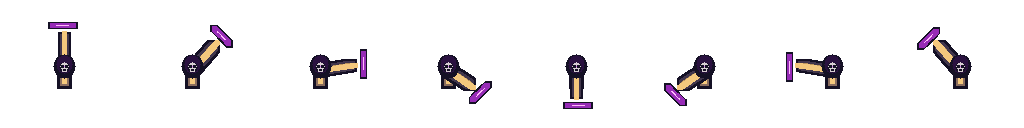
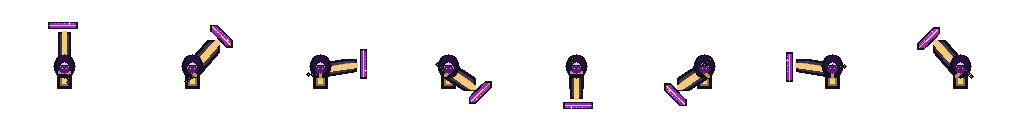
Art: improve Reaper's eight-direction scythe Pixel Art candidate (#340)
* Add directional scythe edge, chain, runes and glow to Reaper Pixel Art source

* Export detailed eight-direction Reaper scythe atlas

* Document separate Reaper scythe v3 art candidate

* Track Reaper eight-way scythe v3 review candidate

* Track Reaper eight-way scythe v3 review candidate

* Track Reaper eight-way scythe v3 review candidate

* Track Reaper eight-way scythe v3 review candidate

diff --git a/tools/generate_necro_modular_candidates.py b/tools/generate_necro_modular_candidates.py
@@ -108,6 +108,25 @@ def base(level):
    line(im,64+dx,82,64+dx*1.17,76,0,7)
  gothic_base_detail(im,level)
  return im
+def reaper_detail(im,dx,dy,x,y):
+ # Directional blade ribs, chained skull pommel and purple soul-fire.
+ sx,sy=-dy,dx
+ tx,ty=x+dx*13,y+dy*13
+ for k in range(-3,4):
+  px,py=tx+sx*k*3,ty+sy*k*3
+  point(im,px+dx*2,py+dy*2,11 if k%2 else 12)
+ line(im,tx-sx*15,ty-sy*15,tx+sx*11,ty+sy*11,0,7)
+ for k in (0,1,2,3):
+  cx=64-dx*k*4+sx*4
+  cy=70-dy*k*4+sy*4
+  oval(im,cx,cy,2,2,1)
+  point(im,cx,cy,6)
+ line(im,64-sx*5,72-sy*5,64+sx*5,72+sy*5,1,6)
+ oval(im,64,69,5,4,9)
+ point(im,62,68,12)
+ point(im,66,68,12)
+ for k in (1,2,3):
+  point(im,tx+dx*k+sx*5,ty+dy*k+sy*5,12)
 def weapon(branch):
  atlas=canvas(1024,128)
  for idx,(dx,dy) in enumerate(DIRECTIONS):
@@ -126,6 +145,7 @@ def weapon(branch):
    line(im,tip[0]-sx*12,tip[1]-sy*12,tip[0]+sx*9,tip[1]+sy*9,2,10)
    line(im,tip[0]-sx*8,tip[1]-sy*8,tip[0]+sx*4,tip[1]+sy*4,0,12)
    oval(im,64,66,11,12,1);oval(im,64,64,8,9,8);skull(im,64,67)
+   reaper_detail(im,dx,dy,x,y)
   else:
    sx,sy=-dy,dx
    for q in (-1,0,1):

diff --git a/docs/ROADMAP.md b/docs/ROADMAP.md
@@ -1,5 +1,8 @@
 # АКТУАЛЬНЫЙ ПЛАН — 01.11.2026 (после PR #314)
 
+**02.11.2026 — Жнец v3 (на художественную проверку):** детализирован 8-направленный `candidate/weapon/reaper/weapon_8way.png`: фиолетовая кромка косы, золотые рунические насечки, цепи, свечения и частицы на острие. Код воспроизводится `reaper_detail()` в генераторе; CI проверяет точное совпадение RGBA по всем шести кандидатам. Это не окончательный художественный уровень и не включение runtime. В игре остаётся утверждённый цельный спрайт. Основания, base/Legion, gameplay и production manifest не тронуты.
+
+
 **01.11.2026 — PR: детализация пиксельных оснований Алтаря душ v2 (арт-кандидат):** три `candidate/base/level_{1,2,3}.png` получили новые готические колонны, золотую отделку, фиолетовые руны, ступенчатые украшения и различимые по уровню шпили. Генератор `tools/generate_necro_modular_candidates.py` содержит ту же геометрию и проходит регрессионную CI-проверку на идентичность всех шести RGBA-файлов. Это **промежуточная художественная итерация**, детали всё ещё проще утверждённых спрайтов. Оружие base/Жнец/Легион не менялось. Production manifest, runtime (`runtime_enabled=false`), сохранения и игровой баланс не менялись. Ручной приёмки 1× нет.
 
 

diff --git a/docs/AI_HANDOFF_PIXEL_ART.md b/docs/AI_HANDOFF_PIXEL_ART.md
@@ -1,5 +1,8 @@
 # Last Ritual — Handoff: Pixel Art Migration & Soul Altar Rework
 
+**02.11.2026 — Жнец v3 (на художественную проверку):** детализирован 8-направленный `candidate/weapon/reaper/weapon_8way.png`: фиолетовая кромка косы, золотые рунические насечки, цепи, свечения и частицы на острие. Код воспроизводится `reaper_detail()` в генераторе; CI проверяет точное совпадение RGBA по всем шести кандидатам. Это не окончательный художественный уровень и не включение runtime. В игре остаётся утверждённый цельный спрайт. Основания, base/Legion, gameplay и production manifest не тронуты.
+
+
 **01.11.2026 — PR: детализация пиксельных оснований Алтаря душ v2 (арт-кандидат):** три `candidate/base/level_{1,2,3}.png` получили новые готические колонны, золотую отделку, фиолетовые руны, ступенчатые украшения и различимые по уровню шпили. Генератор `tools/generate_necro_modular_candidates.py` содержит ту же геометрию и проходит регрессионную CI-проверку на идентичность всех шести RGBA-файлов. Это **промежуточная художественная итерация**, детали всё ещё проще утверждённых спрайтов. Оружие base/Жнец/Легион не менялось. Production manifest, runtime (`runtime_enabled=false`), сохранения и игровой баланс не менялись. Ручной приёмки 1× нет.
 
 

diff --git a/docs/PROJECT_STATE.md b/docs/PROJECT_STATE.md
@@ -1,5 +1,8 @@
 # ТЕКУЩИЙ СНИМОК — 01.11.2026 (после PR #314)
 
+**02.11.2026 — Жнец v3 (на художественную проверку):** детализирован 8-направленный `candidate/weapon/reaper/weapon_8way.png`: фиолетовая кромка косы, золотые рунические насечки, цепи, свечения и частицы на острие. Код воспроизводится `reaper_detail()` в генераторе; CI проверяет точное совпадение RGBA по всем шести кандидатам. Это не окончательный художественный уровень и не включение runtime. В игре остаётся утверждённый цельный спрайт. Основания, base/Legion, gameplay и production manifest не тронуты.
+
+
 **01.11.2026 — PR: детализация пиксельных оснований Алтаря душ v2 (арт-кандидат):** три `candidate/base/level_{1,2,3}.png` получили новые готические колонны, золотую отделку, фиолетовые руны, ступенчатые украшения и различимые по уровню шпили. Генератор `tools/generate_necro_modular_candidates.py` содержит ту же геометрию и проходит регрессионную CI-проверку на идентичность всех шести RGBA-файлов. Это **промежуточная художественная итерация**, детали всё ещё проще утверждённых спрайтов. Оружие base/Жнец/Легион не менялось. Production manifest, runtime (`runtime_enabled=false`), сохранения и игровой баланс не менялись. Ручной приёмки 1× нет.
 
 

diff --git a/docs/AI_HANDOFF.md b/docs/AI_HANDOFF.md
@@ -1,5 +1,8 @@
 # CURRENT HANDOFF — 2026-11-01 (main after PR #314)
 
+**02.11.2026 — Жнец v3 (на художественную проверку):** детализирован 8-направленный `candidate/weapon/reaper/weapon_8way.png`: фиолетовая кромка косы, золотые рунические насечки, цепи, свечения и частицы на острие. Код воспроизводится `reaper_detail()` в генераторе; CI проверяет точное совпадение RGBA по всем шести кандидатам. Это не окончательный художественный уровень и не включение runtime. В игре остаётся утверждённый цельный спрайт. Основания, base/Legion, gameplay и production manifest не тронуты.
+
+
 **01.11.2026 — PR: детализация пиксельных оснований Алтаря душ v2 (арт-кандидат):** три `candidate/base/level_{1,2,3}.png` получили новые готические колонны, золотую отделку, фиолетовые руны, ступенчатые украшения и различимые по уровню шпили. Генератор `tools/generate_necro_modular_candidates.py` содержит ту же геометрию и проходит регрессионную CI-проверку на идентичность всех шести RGBA-файлов. Это **промежуточная художественная итерация**, детали всё ещё проще утверждённых спрайтов. Оружие base/Жнец/Легион не менялось. Production manifest, runtime (`runtime_enabled=false`), сохранения и игровой баланс не менялись. Ручной приёмки 1× нет.
 
 

diff --git a/assets/spire/towers/necro/candidate/SOURCE.md b/assets/spire/towers/necro/candidate/SOURCE.md
@@ -1,5 +1,8 @@
 # Алтарь душ — модульный пиксельный прототип (НЕ УТВЕРЖДЁН)
 
+**Жнец v3 (02.11.2026, candidate-only):** оружейный атлас `weapon/reaper/weapon_8way.png` обновлён: фиолетовая режущая кромка, золотые рунические насечки, цепные звенья, две светящиеся глазницы и частицы на острие для каждого из 8 направлений. Соответствующие правки в `reaper_detail()` генератора `tools/generate_necro_modular_candidates.py`. Не является утверждённым художником финальным спрайтом и не используется в runtime. Base/Легион/основания не изменены.
+
+
 **Итерация v2 (01.11.2026, review-only):** основания L1–L3 дополнены самостоятельными готическими колоннами, пиками, рунами, золотыми акцентами и различиями между уровнями. Код деталей в `gothic_base_detail()` генератора `tools/generate_necro_modular_candidates.py`; воспроизводимые PNG находятся по старым путям `candidate/base/`. Оружейные полосы не изменены. Все изображения остаются черновыми: не сравнимы с утверждённым полным артом по богатству деталей, переключение runtime запрещено.
 
 
